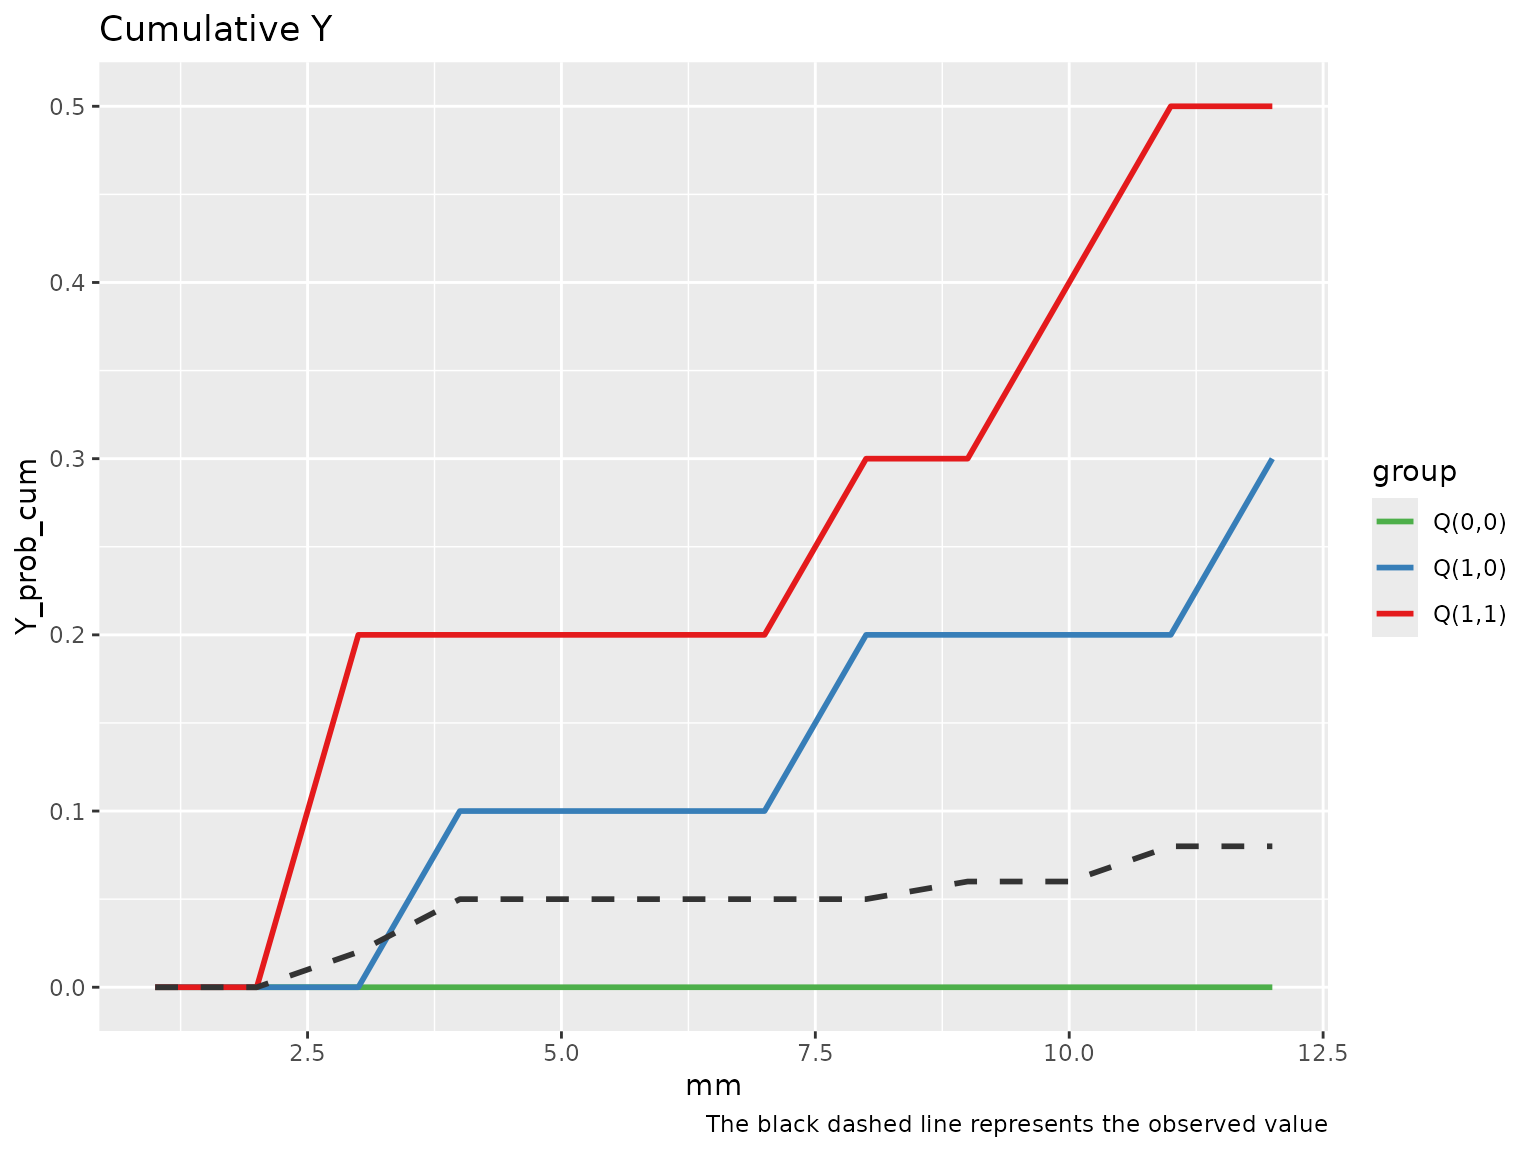
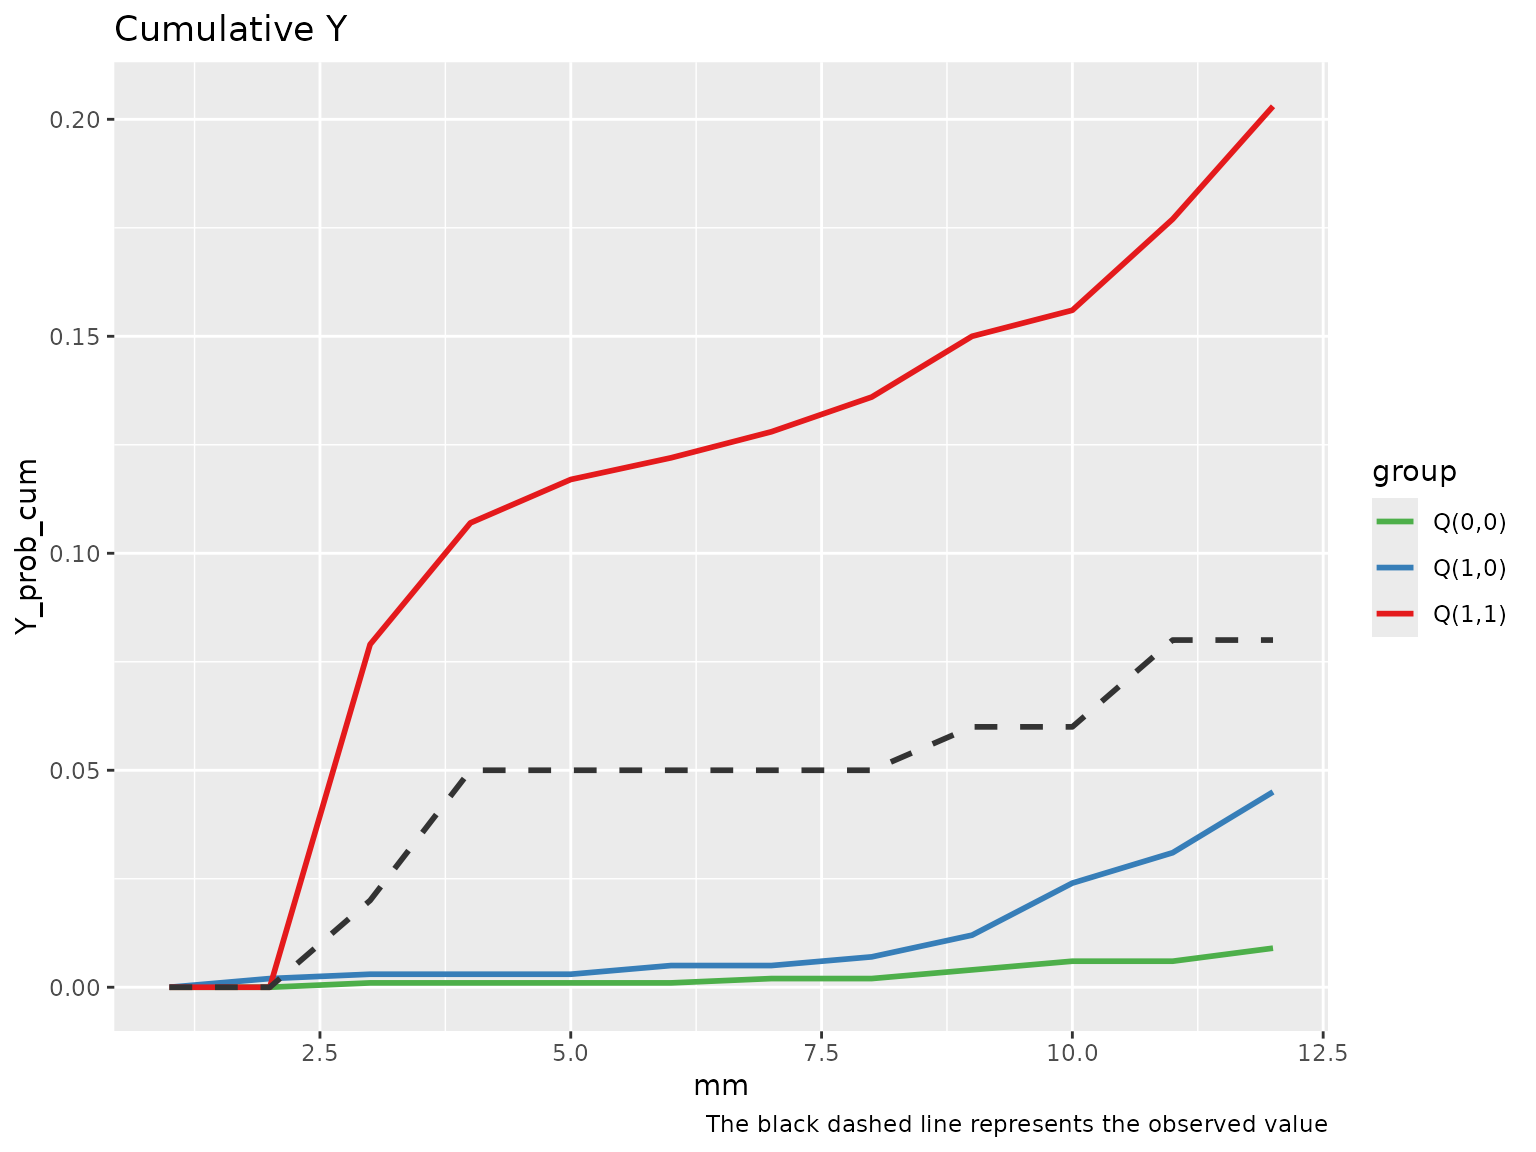
Deploying to gh-pages from @ causalepi/tvmedg@a3e536fb5fd5a2a15978b0681a7224a6dcfcf62f 🚀

diff --git a/articles/single_mediator.html b/articles/single_mediator.html
@@ -163,17 +163,17 @@ using 1000 Monte Carlo samples.</p>
 <span>                   sp_df <span class="op">=</span> <span class="fu"><a href="https://rdrr.io/r/base/c.html" class="external-link">c</a></span><span class="op">(</span><span class="fl">3</span><span class="op">)</span>,</span>
 <span>                   followup <span class="op">=</span> <span class="fl">12</span>,</span>
 <span>                   seed <span class="op">=</span> <span class="fl">123</span>,</span>
-<span>                   montecarlo <span class="op">=</span> <span class="fl">10</span>,</span>
+<span>                   montecarlo <span class="op">=</span> <span class="fl">1000</span>,</span>
 <span>                   boot <span class="op">=</span> <span class="cn">F</span>,</span>
 <span>                   parallel <span class="op">=</span> <span class="cn">TRUE</span><span class="op">)</span></span>
-<span><span class="co">#&gt; Q(a,a): 0.5 </span></span>
-<span><span class="co">#&gt; Q(a,a*): 0.3 </span></span>
-<span><span class="co">#&gt; Q(a*,a*): 0 </span></span>
-<span><span class="co">#&gt; Indirect (rIE): 0.2 </span></span>
-<span><span class="co">#&gt; Direct (rDE): 0.3 </span></span>
-<span><span class="co">#&gt; Total (rTE): 0.5 </span></span>
-<span><span class="co">#&gt; Proportional explain: 0.4 </span></span>
-<span><span class="co">#&gt; Total time elapsed: 4.710823 secs</span></span>
+<span><span class="co">#&gt; Q(a,a): 0.203 </span></span>
+<span><span class="co">#&gt; Q(a,a*): 0.045 </span></span>
+<span><span class="co">#&gt; Q(a*,a*): 0.009 </span></span>
+<span><span class="co">#&gt; Indirect (rIE): 0.158 </span></span>
+<span><span class="co">#&gt; Direct (rDE): 0.036 </span></span>
+<span><span class="co">#&gt; Total (rTE): 0.194 </span></span>
+<span><span class="co">#&gt; Proportional explain: 0.814 </span></span>
+<span><span class="co">#&gt; Total time elapsed: 6.116749 mins</span></span>
 <span><span class="fu"><a href="https://rdrr.io/r/parallel/makeCluster.html" class="external-link">stopCluster</a></span><span class="op">(</span><span class="va">cl</span><span class="op">)</span></span></code></pre></div>
 </div>
 <div class="section level3">
@@ -209,19 +209,19 @@ example, we run only 5 bootstrap iterations.</p>
 <span>                   sp_df <span class="op">=</span> <span class="fu"><a href="https://rdrr.io/r/base/c.html" class="external-link">c</a></span><span class="op">(</span><span class="fl">3</span><span class="op">)</span>,</span>
 <span>                   followup <span class="op">=</span> <span class="fl">12</span>,</span>
 <span>                   seed <span class="op">=</span> <span class="fl">123</span>,</span>
-<span>                   montecarlo <span class="op">=</span> <span class="fl">10</span>,</span>
+<span>                   montecarlo <span class="op">=</span> <span class="fl">1000</span>,</span>
 <span>                   boot <span class="op">=</span> <span class="cn">T</span>,</span>
 <span>                   nboot <span class="op">=</span> <span class="fl">5</span>,</span>
 <span>                   ci <span class="op">=</span> <span class="fl">.95</span>,</span>
 <span>                   parallel <span class="op">=</span> <span class="cn">TRUE</span><span class="op">)</span></span>
-<span><span class="co">#&gt; Q(a,a): 0.6 (0.06, 1) </span></span>
-<span><span class="co">#&gt; Q(a,a*): 0.6 (0.01, 1) </span></span>
-<span><span class="co">#&gt; Q(a*,a*): 0 (0, 0.55) </span></span>
-<span><span class="co">#&gt; Indirect (rIE): 0 (0, 0.73) </span></span>
-<span><span class="co">#&gt; Direct (rDE): 0.6 (-0.54, 1) </span></span>
-<span><span class="co">#&gt; Total (rTE): 0.6 (-0.48, 1) </span></span>
-<span><span class="co">#&gt; Proportional explain: 0 (0, 0.917) </span></span>
-<span><span class="co">#&gt; Total time elapsed: 19.87348 secs</span></span>
+<span><span class="co">#&gt; Q(a,a): 0.817 (0, 0.921) </span></span>
+<span><span class="co">#&gt; Q(a,a*): 0.792 (0, 0.906) </span></span>
+<span><span class="co">#&gt; Q(a*,a*): 0 (0, 0.27) </span></span>
+<span><span class="co">#&gt; Indirect (rIE): 0.025 (-0.015, 0.145) </span></span>
+<span><span class="co">#&gt; Direct (rDE): 0.792 (-0.264, 0.906) </span></span>
+<span><span class="co">#&gt; Total (rTE): 0.817 (-0.205, 0.921) </span></span>
+<span><span class="co">#&gt; Proportional explain: 0.031 (-0.286, 0.701) </span></span>
+<span><span class="co">#&gt; Total time elapsed: 30.96388 mins</span></span>
 <span><span class="fu"><a href="https://rdrr.io/r/parallel/makeCluster.html" class="external-link">stopCluster</a></span><span class="op">(</span><span class="va">cl</span><span class="op">)</span></span></code></pre></div>
 </div>
 <div class="section level3">
